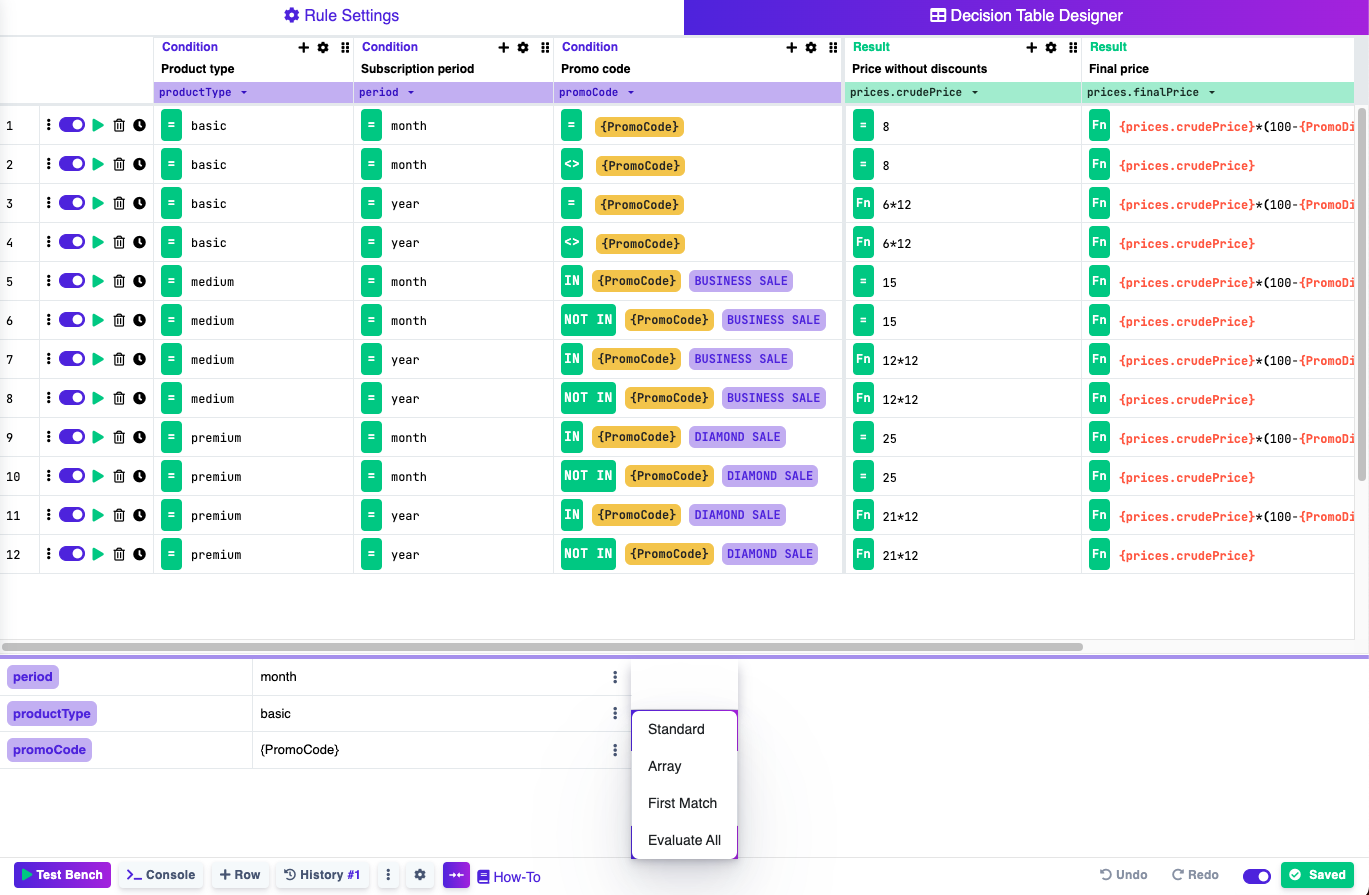
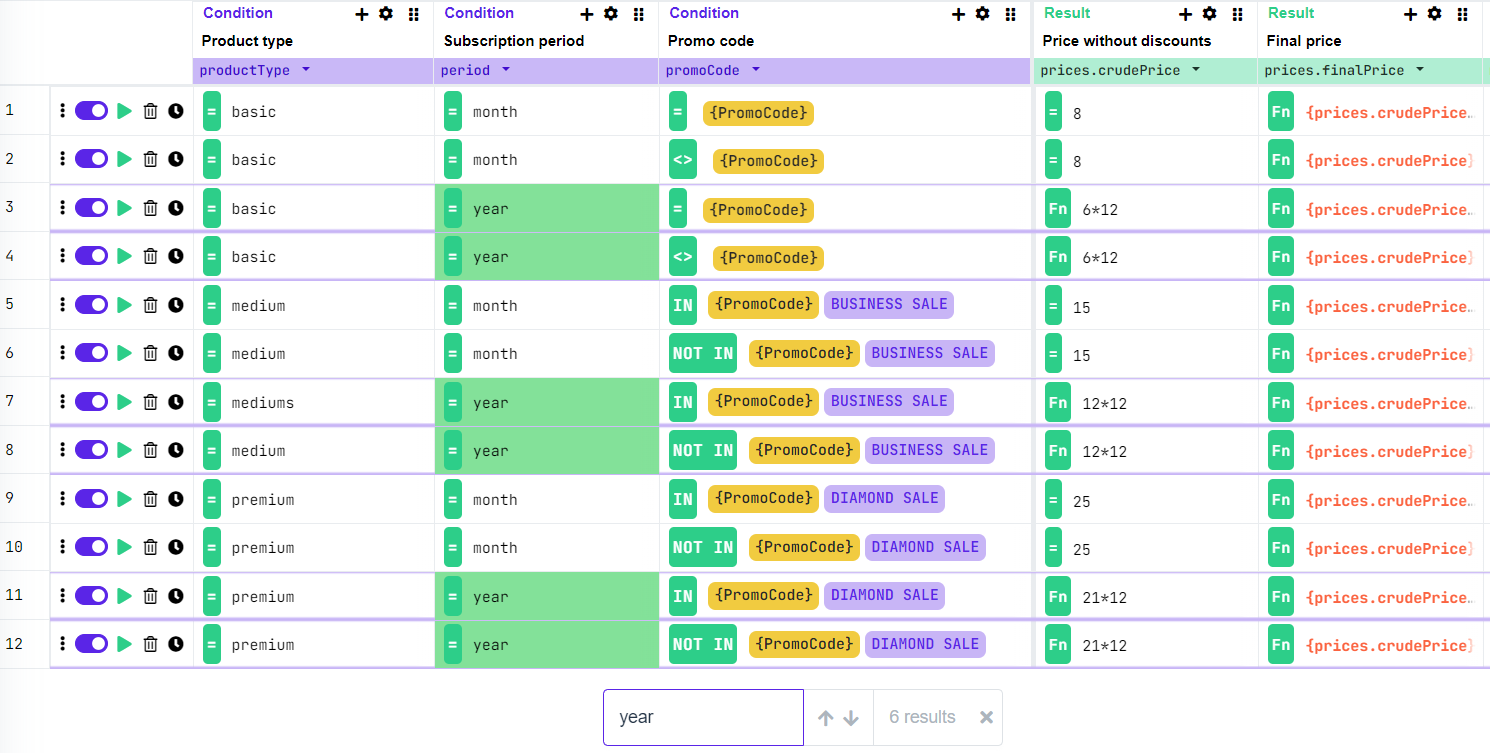
GITBOOK-684: Resizable Columns

diff --git a/decision-tables/table-operations/search.md b/decision-tables/table-operations/search.md
@@ -12,6 +12,6 @@ The search button can be found in the bottom bar
 
 By clicking on **Search** , the search bar will appear where you can enter the values you want to find in the table.
 
-<figure><img src="../../.gitbook/assets/image (237).png" alt=""><figcaption></figcaption></figure>
+<figure><img src="../../.gitbook/assets/image (3).png" alt=""><figcaption></figcaption></figure>
 
-The cells containing the specific values will be highlighted green, like in the picture above.
+The cells containing the specific values will be highlighted green, like in the picture above. Pressing enter will then scroll to the next cell containing the searched phrase.

diff --git a/release-notes/public-cloud.md b/release-notes/public-cloud.md
@@ -7,6 +7,13 @@ coverY: -882.1114369501468
 
 # Public Cloud
 
+### Version 1.15.2 - 5/2023
+
+* Columns of Decision Tables are now resizable! Drag and drop the edges of column headers to resize their corresponding columns.
+* Improved the search functionality of Decision Tables.
+* Decision Tables now remember your scroll position and automatically scroll there when you refresh the application or leave and re-enter the table.&#x20;
+* Minor bug fixes.
+
 ### Version 1.15.1 - 4/2023
 
 * Added regional cloud functionality. What are regional clouds? Read more about them [here](broken-reference).

diff --git a/other/execution-strategy.md b/other/execution-strategy.md
@@ -24,7 +24,7 @@ You can easily set the execution strategy for solver API by adding the X-Strateg
 Execution strategy can be also chosen in Test bench.
 {% endhint %}
 
-<figure><img src="../.gitbook/assets/image (3).png" alt=""><figcaption></figcaption></figure>
+<figure><img src="../.gitbook/assets/image (3) (3).png" alt=""><figcaption></figcaption></figure>
 
 The distinct types of execution strategies are described below.
 
